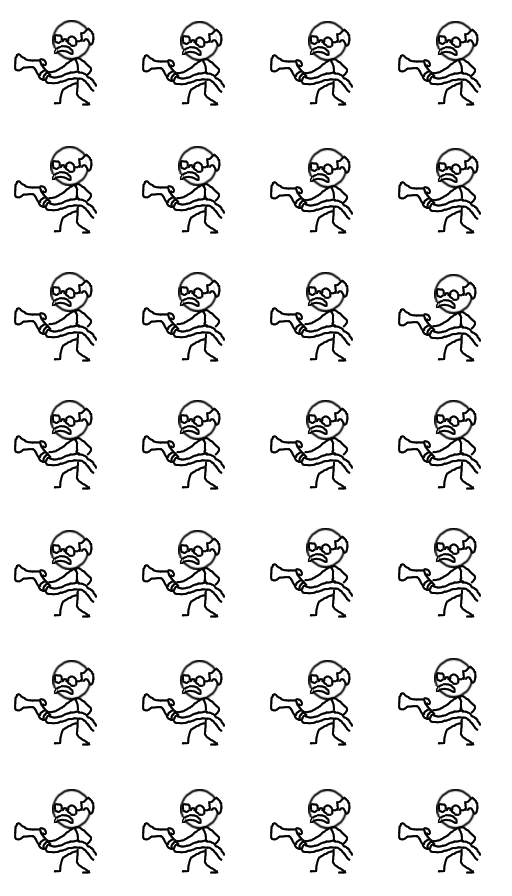
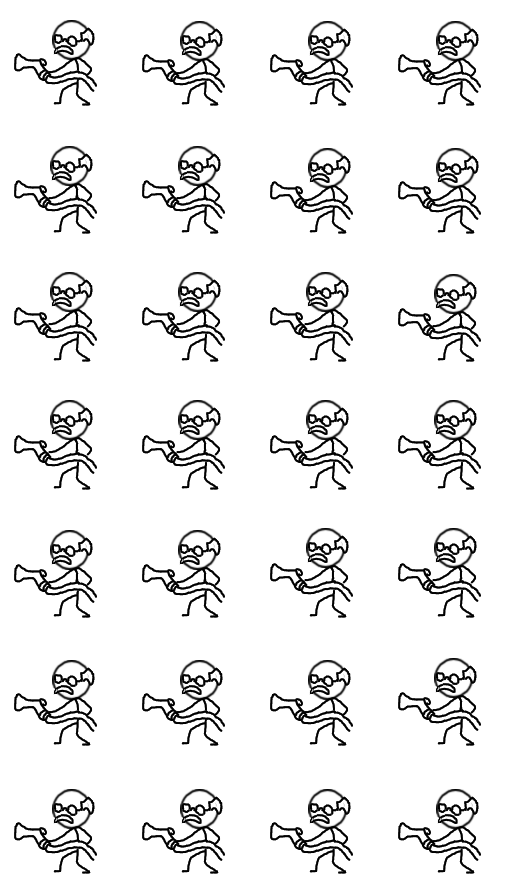
added movement to player for left and right

diff --git a/main.cpp b/main.cpp
@@ -25,9 +25,9 @@ int main() {
 	Sprite sprite_idle;
 	sprite_idle.position = {200, 350};
 	sprite_idle.frameRec = {0, 0, 128, 128};
-	sprite_idle.active = true;
+	// sprite_idle.active = true;
 
-	int frameCounter = 0;
+	int frameCounter = 0; // iterates throgh each frame
 
 	// PLAYER LEFT IDLE SPRITE
 	Texture2D left_idle = LoadTexture("assets/left_idle.png"); // left idle facing sprite
@@ -35,7 +35,7 @@ int main() {
 	Sprite sprite_idle_left;
 	sprite_idle_left.position = {200, 350};
 	sprite_idle_left.frameRec = {0, 0, 128, 128};
-	sprite_idle_left.active = false;
+	// sprite_idle_left.active = false;
 
 	int frameCounterLeft = 0;
 
@@ -46,7 +46,7 @@ int main() {
 	sprite_run.position = {sprite_idle.position};
 	sprite_run.frameRec = {0, 0, 128, 128};
 	sprite_run.velocity = {100, 100};
-	sprite_run.active = false;
+	// sprite_run.active = false;
 
 	int frameCounterRun = 0;	
 	int runTimer = 0;
@@ -59,17 +59,17 @@ int main() {
 	sprite_run_left.position = {sprite_idle_left.position};
 	sprite_run_left.frameRec = {0, 0, 128, 128};
 	sprite_run_left.velocity = {100, 100};
-	sprite_run_left.active = false;
+	// sprite_run_left.active = false;
 
 	int frameCounterRunLeft = 0;	
 
 	int runLeftTimer = 0;
 
 	// PLAYER STATE
-	STATE sprite_state;
+	STATE sprite_state = IDLE;
 
 	// FPS
-	SetTargetFPS(FPS / 2);
+	SetTargetFPS(FPS/2);
 
 	// GAME LOOP
 	while(!WindowShouldClose()){
@@ -77,12 +77,17 @@ int main() {
 
 		// RUN CONDITION RIGHT
 		if (IsKeyDown(KEY_RIGHT)) {
-			sprite_idle.active = false;
-			sprite_run.active = true;
-			sprite_idle_left.active = false;
-			sprite_run_left.active = false;
+//			sprite_idle.active = false;
+//			sprite_run.active = true;
+//			sprite_idle_left.active = false;
+//			sprite_run_left.active = false;
+
+//			if (sprite_state == RIGHT){
+//				sprite_run.position = sprite_run_left.position;
+//			}
 
 			sprite_state = RIGHT;
+
 
 			sprite_run.position.x += sprite_run.velocity.x * dt;
 	
@@ -96,12 +101,17 @@ int main() {
 
 		// RUN CONDITION LEFT
 		else if (IsKeyDown(KEY_LEFT)) {
-			sprite_idle.active = false;
-			sprite_run.active = false;
-			sprite_idle_left.active = false;
-			sprite_run_left.active = true;
+//			sprite_idle.active = false;
+//			sprite_run.active = false;
+//			sprite_idle_left.active = false;
+//			sprite_run_left.active = true;
+
+			if (sprite_state == RIGHT){
+				sprite_run_left.position = sprite_run.position;
+			}
 
 			sprite_state = LEFT;
+
 
 			sprite_run_left.position.x -= sprite_run_left.velocity.x * dt;
 
@@ -117,26 +127,27 @@ int main() {
 		// IDLE CONDITION
 		else {
 			if (sprite_state == LEFT){
-				sprite_idle.active = false;
-				sprite_run.active = false;
-				sprite_idle_left.active = true;
-				sprite_run_left.active = false;
+//				sprite_idle.active = false;
+//				sprite_run.active = false;
+//				sprite_idle_left.active = true;
+//				sprite_run_left.active = false;
 
 				sprite_state = IDLE_LEFT;
-				
+
 				sprite_idle_left.position.x = sprite_run_left.position.x;
 
 			}
 
 			else if (sprite_state == RIGHT){
-				sprite_idle.active = true;
-				sprite_idle_left.active = false;
-				sprite_run.active = false;
-				sprite_run_left.active = false;
+//				sprite_idle.active = true;
+//				sprite_idle_left.active = false;
+//				sprite_run.active = false;
+//				sprite_run_left.active = false;
 
 				sprite_state = IDLE;
-
+		
 				sprite_idle.position.x = sprite_run.position.x;
+
 			}
 		}
 
@@ -152,7 +163,6 @@ int main() {
 
 			sprite_idle.frameRec.x = (frameCounter % 4) * sprite_idle.frameRec.width; // moves across the 4 columns.
 			sprite_idle.frameRec.y = (frameCounter / 4) * sprite_idle.frameRec.height; // moves down the 7 rows
-
 		}
 
 		
@@ -217,19 +227,19 @@ int main() {
 		DrawTexture(front_fence, 0, 470, WHITE); // front fence
 		DrawTexture(back_fence, 0, 250, WHITE); // back fence
 
-		if(sprite_run.active){
+		if(sprite_state == RIGHT){
 			DrawTextureRec(run, sprite_run.frameRec, sprite_run.position, WHITE); // run right sprite
 		}
 
-		else if(sprite_run_left.active){
+		else if(sprite_state == LEFT){
 			DrawTextureRec(run_left, sprite_run_left.frameRec, sprite_run_left.position, WHITE); // run left sprite
 		}
 
-		else if (sprite_idle.active){
+		else if (sprite_state == IDLE){
 			DrawTextureRec(idle, sprite_idle.frameRec, sprite_idle.position, WHITE); // right idle player
 		}
 
-		else if (sprite_idle_left.active){
+		else if (sprite_state == IDLE_LEFT){
 			DrawTextureRec(left_idle, sprite_idle_left.frameRec, sprite_idle_left.position, WHITE); // left idle player
 		}
 

diff --git a/sprites.h b/sprites.h
@@ -2,9 +2,9 @@
 # define SPRITES
 
 enum STATE {
-	IDLE,
-	RIGHT,
+	IDLE, // this is idle right just do not feel like changing whole thing
 	IDLE_LEFT,
+	RIGHT,
 	LEFT,
 	UP,
 	DOWN,
